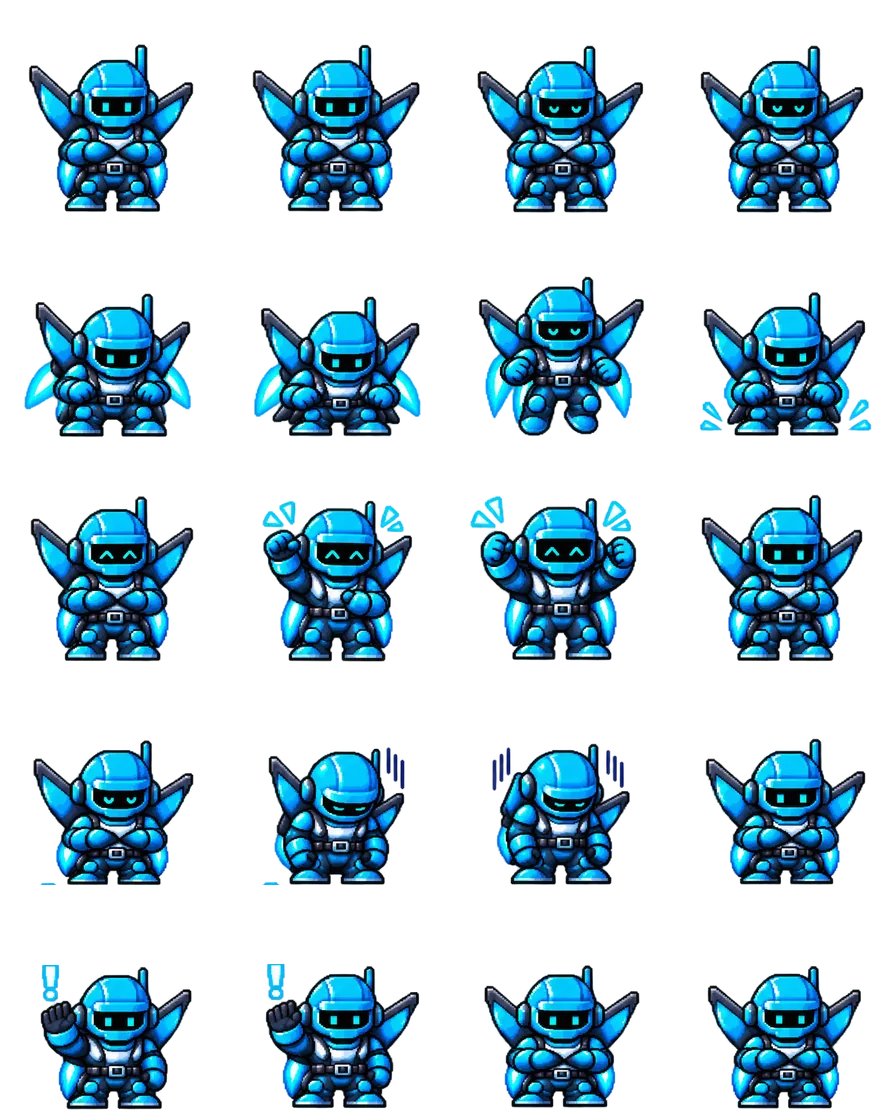
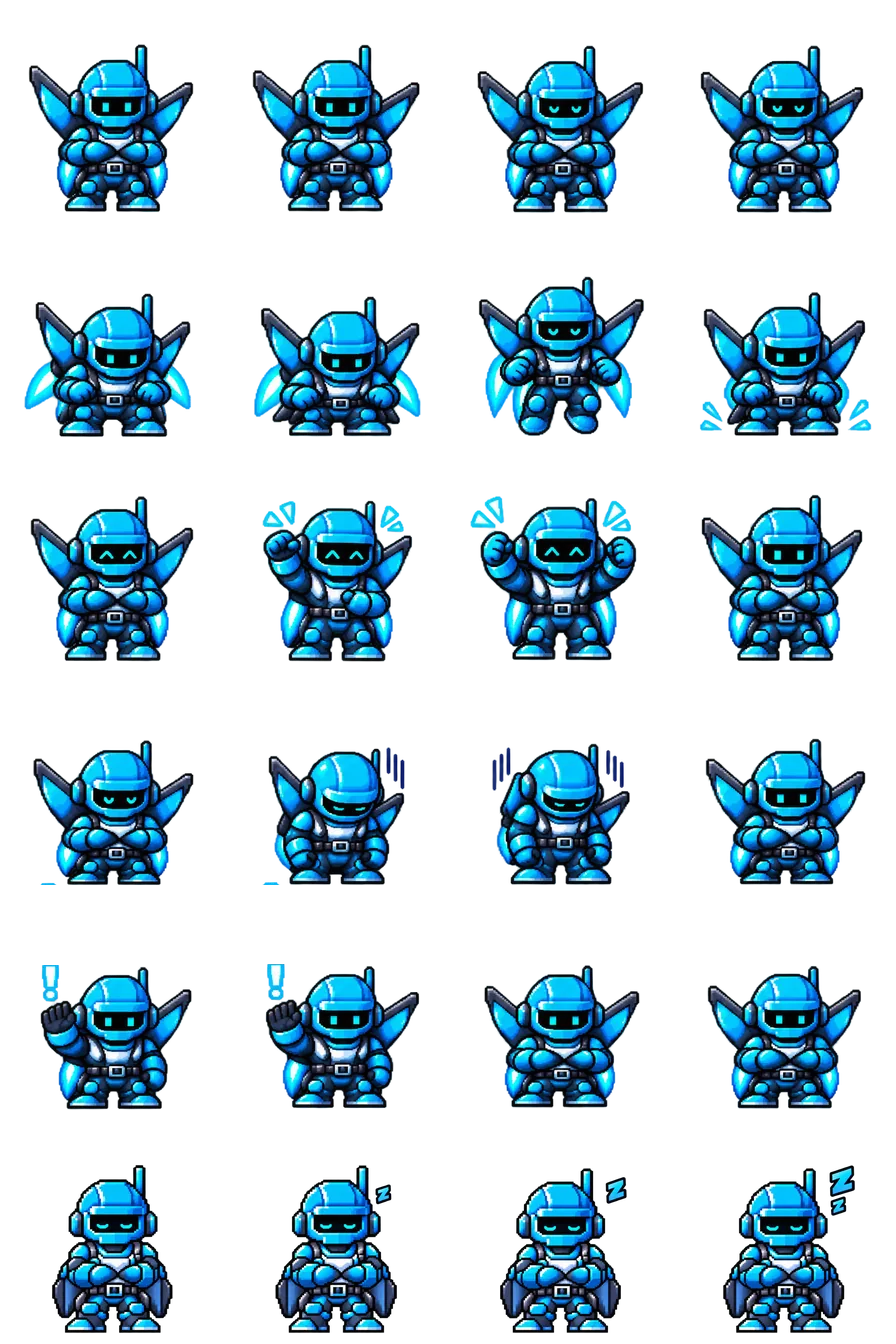
Crew sleeps when nothing is running
Each agent's sheet gains a sixth row: a 4-frame sleep loop (eyes closed,
a slow breath, Zs rising in the agent's colour), cut by agent_art.py from
the new 2x2 sleep sheets in assets/ and scaled to the agent's idle figure
on the same foot line, so dozing off and waking never change its size.

AgentSprite takes `asleep`: a queued agent sleeps on the sign-in page,
on the crew floor at rest, and on any build that isn't live (stopped,
paused, failed, stalled, finished). Waiting a turn inside a live build
stays awake and still, so nobody looks stuck mid-run. Reduced motion
holds a frame with a Z up. Asleep is dimmed less than queued-in-a-build.

ATLAS keeps its published rows 1-5 (stand-in) and gains the sleep row.

diff --git a/frontend/components/agents/agents.css b/frontend/components/agents/agents.css
@@ -42,7 +42,8 @@
 }
 
 /* ── the sheet ──
-   4 frames across, 5 rows down: queued, working, done, rejected, gate. The
+   4 frames across, 6 rows down: queued, working, done, rejected, gate, and
+   asleep (queued while no build is running). The
    row is picked with background-position-y and frames are stepped with
    background-position-x, so changing state never reloads anything — one
    image per agent, already decoded.
@@ -58,7 +59,7 @@
 }
 .sprite-sheet {
   background-image: var(--sheet);
-  background-size: 400% 500%;
+  background-size: 400% 600%;
   background-repeat: no-repeat;
   background-position: 0% 0%;
 }
@@ -69,10 +70,11 @@
   user-select: none;
 }
 
-.sprite.is-working .sprite-sheet  { background-position-y: 25%; }
-.sprite.is-done .sprite-sheet     { background-position-y: 50%; }
-.sprite.is-rejected .sprite-sheet { background-position-y: 75%; }
-.sprite.is-gate .sprite-sheet     { background-position-y: 100%; }
+.sprite.is-working .sprite-sheet  { background-position-y: 20%; }
+.sprite.is-done .sprite-sheet     { background-position-y: 40%; }
+.sprite.is-rejected .sprite-sheet { background-position-y: 60%; }
+.sprite.is-gate .sprite-sheet     { background-position-y: 80%; }
+.sprite.is-queued.is-asleep .sprite-sheet { background-position-y: 100%; }
 
 /* jump-none puts all four frames on screen for a quarter of the cycle each:
    0, 33.3, 66.7, 100% is frame 1 to 4 of a 400%-wide sheet.
@@ -122,8 +124,22 @@
 .sprite.is-done .sprite-sheet { animation: sheet-once 760ms steps(4, jump-none) 1 both; }
 .sprite.is-rejected .sprite-sheet { animation: sheet-to-slump 600ms steps(3, jump-none) 1 both; }
 
+/* Asleep: a slow breath with the Zs rising — frame 1 none, then small,
+   medium, large. Slow on purpose: it is the one loop that may run while
+   nothing is happening, so it should read as calm, not as activity. */
+@keyframes sheet-sleep {
+  from { background-position-x: 0%; }
+  to   { background-position-x: 100%; }
+}
+.sprite.is-queued.is-asleep .sprite-sheet {
+  animation: sheet-sleep 3.2s steps(4, jump-none) infinite;
+}
+
 /* Queued crew are dimmed and desaturated — present, not yet involved. */
 .sprite.is-queued { filter: saturate(0.66) brightness(0.74); }
+/* Asleep is the room at rest, not someone left out of a running build, so the
+   lights come down less: still quieter than anyone awake, never greyed out. */
+.sprite.is-queued.is-asleep { filter: saturate(0.85) brightness(0.88); }
 .sprite.is-done { filter: none; }
 .sprite.is-rejected { filter: saturate(0.85); }
 
@@ -260,8 +276,8 @@
    figure returns to its own pose, and the own animation keeps its name in
    the list — so leaving the card doesn't replay the fist pump or the slump. */
 @keyframes sheet-hover-row {
-  from { background-position: 0% 25%; }
-  to   { background-position: 100% 25%; }
+  from { background-position: 0% 20%; }
+  to   { background-position: 100% 20%; }
 }
 .agent-card:hover .sprite.is-queued .sprite-sheet {
   animation: sheet-hover-row 800ms steps(4, jump-none) 1;
@@ -1658,6 +1674,8 @@
   .sprite.is-working .sprite-sheet,
   .sprite.is-done .sprite-sheet { background-position-x: 33.333%; }
   .sprite.is-rejected .sprite-sheet { background-position-x: 66.667%; }
+  /* Asleep holds a frame with a Z up, so it still reads as asleep. */
+  .sprite.is-queued.is-asleep .sprite-sheet { background-position-x: 66.667%; }
   /* The board holds still: the running light parks mid-cell, the gate cell
      stays lit. The outline and caret still say which phase has the work. */
   .board-tick.is-working { animation: none; background-position: 50% 0; }

diff --git a/frontend/components/agents/AgentSprite.tsx b/frontend/components/agents/AgentSprite.tsx
@@ -15,7 +15,9 @@ const STILL_MAX = 28;
  * working and gate loop (someone is busy; someone needs you), done plays once
  * and settles, rejected plays into its slump and holds, queued stands still.
  * Eight characters breathing on a loop everywhere is noise; motion is kept for
- * the states that are news.
+ * the states that are news — with one exception, `asleep`: a queued agent
+ * while no build is running dozes on a slow loop. Waiting a turn inside a live
+ * build stays awake and still, so nobody looks stuck mid-run.
  *
  * Two things layer on top and are deliberately not in the sheet:
  *
@@ -31,6 +33,7 @@ export default function AgentSprite({
   size = 48,
   state = "queued",
   ground = false,
+  asleep = false,
   className = "",
 }: {
   agent: Persona;
@@ -38,12 +41,14 @@ export default function AgentSprite({
   state?: SpriteState;
   /** Draw a contact shadow beneath the figure. On for anyone standing in a room. */
   ground?: boolean;
+  /** Nothing is running, so a queued agent sleeps. Ignored in any other state. */
+  asleep?: boolean;
   className?: string;
 }) {
   const art = artFor(agent);
   return (
     <span
-      className={`sprite motion-${agent.motion} is-${state}${ground ? " grounded" : ""} ${className}`}
+      className={`sprite motion-${agent.motion} is-${state}${asleep && state === "queued" ? " is-asleep" : ""}${ground ? " grounded" : ""} ${className}`}
       style={{
         ["--sprite-size" as string]: `${size}px`,
         ["--agent" as string]: agent.accent,

diff --git a/frontend/app/(app)/crew/page.tsx b/frontend/app/(app)/crew/page.tsx
@@ -200,6 +200,10 @@ export default function CrewPage() {
     (_, i) => stateOf(i) === "working" || stateOf(i) === "gate",
   );
   const doneCount = AGENTS.filter((_, i) => stateOf(i) === "done").length;
+  // The floor is at rest when nobody holds or is redoing work and the relay
+  // isn't driving it — then whoever is waiting dozes. Mid-build they wait awake.
+  const atRest =
+    !relay && AGENTS.every((_, i) => stateOf(i) === "queued" || stateOf(i) === "done");
 
   return (
     <div className="crew-page">
@@ -403,7 +407,7 @@ export default function CrewPage() {
                           </span>
                         </span>
                       </span>
-                      <AgentSprite agent={a} size={72} state={st} ground />
+                      <AgentSprite agent={a} size={72} state={st} asleep={atRest} ground />
                       <span className="desk" aria-hidden="true">
                         <span className="desk-screen" />
                         <span className="desk-spill" />
@@ -442,7 +446,7 @@ export default function CrewPage() {
             </div>
 
             <div className="inspect-portrait">
-              <AgentSprite agent={agent} size={104} state={agentState} />
+              <AgentSprite agent={agent} size={104} state={agentState} asleep={atRest} />
             </div>
 
             <h2 className="inspect-name">{agent.codename}</h2>

diff --git a/frontend/app/(app)/projects/[id]/page.tsx b/frontend/app/(app)/projects/[id]/page.tsx
@@ -496,7 +496,12 @@ export default function ProjectPage({ params }: { params: { id: string } }) {
                   }}
                   title={`${agent.codename} · ${agent.role} — ${what}`}
                 >
-                  <AgentSprite agent={agent} size={64} state={SPRITE_STATE[ns]} />
+                  <AgentSprite
+                    agent={agent}
+                    size={64}
+                    state={SPRITE_STATE[ns]}
+                    asleep={!stillRunning(status ?? "")}
+                  />
                   <span className="relay-name">{agent.codename}</span>
                   <span className="relay-bar" />
                   <span className="sr-only">{`${agent.role} — ${what}. Go to this phase.`}</span>
@@ -1051,7 +1056,12 @@ function PhaseList({
               aria-expanded={hasDoc ? isOpen : undefined}
               onClick={() => hasDoc && setOpen((o) => ({ ...o, [ph.key]: !isOpen }))}
             >
-              <AgentSprite agent={agent} size={40} state={SPRITE_STATE[ns]} />
+              <AgentSprite
+                agent={agent}
+                size={40}
+                state={SPRITE_STATE[ns]}
+                asleep={!stillRunning(effectiveStatus(project))}
+              />
 
               <span className="phase-main">
                 <span className="phase-line agent-line">

diff --git a/frontend/components/agents/personas.ts b/frontend/components/agents/personas.ts
@@ -84,10 +84,10 @@ export const DESK_PALETTE: Record<string, string> = {
 };
 
 /**
- * Where an agent's art lives. `sheet` is 4 frames across and 5 rows down, one
- * row per state — queued, working, done, rejected, gate (agents.css positions
- * them in that order); `still` is a small single frame for
- * renders too small for the sheet to read.
+ * Where an agent's art lives. `sheet` is 4 frames across and 6 rows down, one
+ * row per state — queued, working, done, rejected, gate, then asleep
+ * (agents.css positions them in that order); `still` is a small single frame
+ * for renders too small for the sheet to read.
  */
 export function artFor(a: Persona): { sheet: string; still: string } {
   const slug = a.codename.toLowerCase();

diff --git a/frontend/app/signin/page.tsx b/frontend/app/signin/page.tsx
@@ -156,7 +156,7 @@ function SignIn() {
         <div className="door-floor">
           {AGENTS.map((a, i) => (
             <span className="door-agent" key={a.key} style={{ ["--i" as string]: i }}>
-              <AgentSprite agent={a} size={136} state="queued" ground />
+              <AgentSprite agent={a} size={136} state="queued" asleep ground />
               <span className="door-codename" style={{ color: a.accent }}>
                 {a.codename}
               </span>

diff --git a/frontend/scripts/agent_art.py b/frontend/scripts/agent_art.py
@@ -5,11 +5,13 @@ Turns the generated crew art in `assets/` into what AgentSprite plays.
     python3 frontend/scripts/agent_art.py atlas      # just the named agents
     (needs Pillow; writes WebP through `cwebp`)
 
-Inputs, per agent: a still (`scope.png`) and a 5x4 sprite sheet
-(`Scope Sprite Sheet.png`), both 1254x1254 out of an image model. Outputs, in
+Inputs, per agent: a still (`scope.png`), a 5x4 sprite sheet
+(`Scope Sprite Sheet.png`) and a 2x2 sleep sheet (`Scope Sleep Sheet.png`),
+all 1254x1254 out of an image model. Outputs, in
 `frontend/public/agents/`:
 
-    <codename>.webp        the sheet, re-cut onto an even 4x5 grid of CELL cells
+    <codename>.webp        the sheet, re-cut onto an even 4x6 grid of CELL cells:
+                           the 5 rows of the sprite sheet, then the sleep loop
     <codename>-still.webp  the still at ICON px, for the smallest renders
 
 The model output can't be used as-is, for three reasons this script exists to fix:
@@ -55,7 +57,8 @@ ROOT = Path(__file__).resolve().parents[2]
 SRC = ROOT / "assets"
 OUT = ROOT / "frontend" / "public" / "agents"
 
-COLS, ROWS = 4, 5
+COLS, ROWS = 4, 5  # the sprite sheet as generated
+OUT_ROWS = ROWS + 1  # …plus the sleep loop as a sixth row
 CELL = 224  # 104px inspector portrait at 2x DPR, with headroom
 ICON = 96  # stills are only used at <= 32px
 FEET_Y = 0.95  # where the soles land in a cell (matches .sprite transform-origin)
@@ -63,7 +66,7 @@ MAX_H = 0.80  # tallest idle figure fills this much of the cell
 MAX_W = 0.98
 
 AGENTS = {
-    # codename: (still, sheet)
+    # codename: (still, sheet); the sleep sheet is "<Name> Sleep Sheet.png"
     "scope": ("scope.png", "Scope Sprite Sheet.png"),
     "atlas": ("Atlas.png", "ATLAS Sprite Sheet.png"),
     "forge": ("FORGE.png", "ForgeSprite Sheet.png"),
@@ -263,6 +266,42 @@ def frames(sheet: Image.Image):
         )
 
 
+def sleep_file(name: str) -> str:
+    return f"{name.capitalize()} Sleep Sheet.png"
+
+
+def sleep_frames(sheet: Image.Image):
+    """Yield (frame image, anchor, figure bbox) for the 2x2 sleep loop, in order.
+
+    Cut at the real gaps like the main sheets; the Zs are separate shapes and
+    stay with the figure in their quadrant. Sleep is drawn standing, so the
+    feet anchor works unchanged.
+    """
+    alpha = sheet.getchannel("A").load()
+    W, H = sheet.size
+    ink_x = [sum(1 for y in range(0, H, 2) if alpha[x, y] > 40) for x in range(W)]
+    ink_y = [sum(1 for x in range(0, W, 2) if alpha[x, y] > 40) for y in range(H)]
+    xs = [0] + cut_lines(ink_x, 2, round(W * 0.2)) + [W]
+    ys = [0] + cut_lines(ink_y, 2, round(H * 0.2)) + [H]
+    for r in range(2):
+        for c in range(2):
+            slot = (xs[c], ys[r], xs[c + 1], ys[r + 1])
+            mine = [k for k in components(alpha, slot) if k[0] > 12]
+            figure = max(mine, key=lambda k: k[0])
+            if figure[1][3] >= H - 1 or figure[1][1] <= 0:
+                raise SystemExit(f"sleep frame {r * 2 + c + 1} touches the edge of the sheet")
+            mask = Image.new("L", sheet.size, 0)
+            mp = mask.load()
+            for k in mine:
+                for x, y in k[2]:
+                    mp[x, y] = 255
+            mask = mask.filter(ImageFilter.MaxFilter(3))
+            frame = Image.new("RGBA", sheet.size, (0, 0, 0, 0))
+            frame.paste(sheet.crop(slot), slot[:2])
+            frame = Image.composite(frame, Image.new("RGBA", sheet.size, (0, 0, 0, 0)), mask)
+            yield frame, feet_anchor(figure[2], figure[1]), figure[1]
+
+
 def place(frame, anchor, scale, cell=CELL):
     """Scale the frame about its feet and drop it on a cell at FEET_Y."""
     ax, ay = anchor
@@ -301,6 +340,7 @@ def main():
     # Every sheet is cut even when only some are written: the shared scale
     # depends on all eight, so a rebuilt agent stays the same size as the rest.
     cut = {}
+    skipped = set()
     for name, (_, sheet_file) in AGENTS.items():
         sheet = strip_painted_checkerboard(Image.open(SRC / sheet_file))
         cut[name] = []
@@ -310,9 +350,12 @@ def main():
         except SystemExit as e:
             # Fatal only for a sheet being written; for the others the idle
             # row is all the shared scale needs, and it is always cut in full.
-            if name in only or sum(1 for r, *_ in cut[name] if r == 0) < COLS:
+            if sum(1 for r, *_ in cut[name] if r == 0) < COLS or (
+                name in only and not (OUT / f"{name}.webp").exists()
+            ):
                 raise SystemExit(f"{sheet_file}: {e}") from None
             print(f"skip {name}: {e}")
+            skipped.add(name)
             continue
         print(f"cut {name}: {len(cut[name])} frames")
 
@@ -327,12 +370,27 @@ def main():
     for name, (still_file, _) in AGENTS.items():
         if name not in only:
             continue
-        grid = Image.new("RGBA", (CELL * COLS, CELL * ROWS), (0, 0, 0, 0))
-        idle_h = None
-        for r, c, frame, anchor, bbox in cut[name]:
-            grid.alpha_composite(place(frame, anchor, scale), (c * CELL, r * CELL))
-            if r == 0 and c == 0:
-                idle_h = (bbox[3] - bbox[1]) * scale
+        grid = Image.new("RGBA", (CELL * COLS, CELL * OUT_ROWS), (0, 0, 0, 0))
+        idle_h = next((b[3] - b[1]) * scale for r, c, _f, _a, b in cut[name] if r == 0 and c == 0)
+        if name in skipped:
+            # The sprite sheet can't be cut (see ATLAS above): keep the five
+            # published rows as they are and only redo the sleep row.
+            published = Image.open(OUT / f"{name}.webp").convert("RGBA")
+            grid.paste(published.crop((0, 0, CELL * COLS, CELL * ROWS)), (0, 0))
+            print(f"  {name}: kept the published rows 1-5")
+        else:
+            for r, c, frame, anchor, bbox in cut[name]:
+                grid.alpha_composite(place(frame, anchor, scale), (c * CELL, r * CELL))
+
+        # The sleep loop is drawn at its own size, so each agent's is scaled to
+        # its idle figure — dozing off and waking up never change their size.
+        try:
+            sleep = list(sleep_frames(strip_painted_checkerboard(Image.open(SRC / sleep_file(name)))))
+        except SystemExit as e:
+            raise SystemExit(f"{sleep_file(name)}: {e}") from None
+        k = idle_h / (sleep[0][2][3] - sleep[0][2][1])
+        for c, (frame, anchor, _b) in enumerate(sleep):
+            grid.alpha_composite(place(frame, anchor, k), (c * CELL, ROWS * CELL))
         webp(grid, OUT / f"{name}.webp")
 
         # The still is drawn at the same height as the idle frame, so swapping
